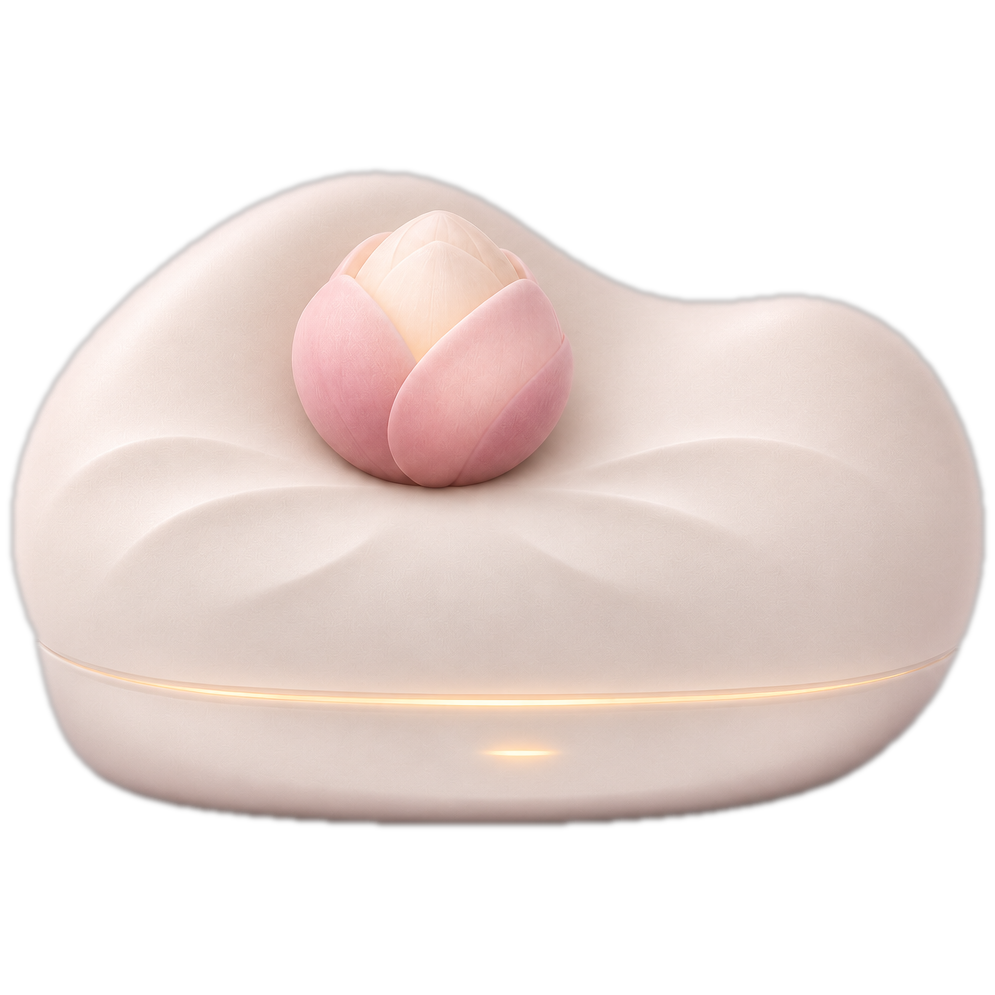
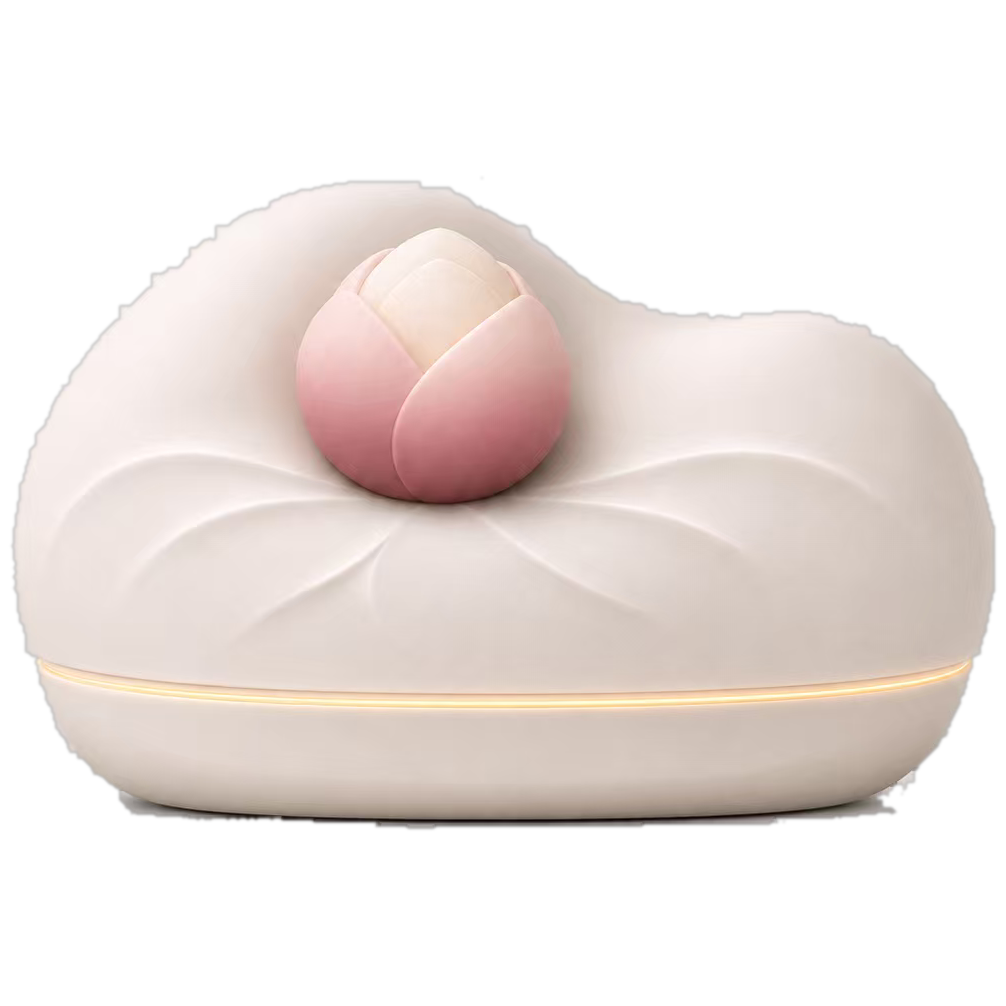
改用正视图：灰底映射宣纸色不抠边、烟改细柔、点火改为花心透光（去掉几何放大）、夜间边缘化入夜色

diff --git a/css/lotus.css b/css/lotus.css
@@ -1,121 +1,94 @@
 /* ============================================================
    闻息 · lotus.css  （最后加载）
-   把「香炉图」换成建模版的香薰仪之后，所有对位参数在这里统一覆盖。
-   只调视觉对位，不动任何交互逻辑。
+   产品：香薰仪建模（正视图）
+   只做视觉对位与氛围，不动任何交互逻辑
    ============================================================ */
 
-/* 产品图：方形容器内等比放置 */
+/* ---------- 产品图 ---------- */
 .censer-art {
   object-fit: contain;
+  transform: none;
 }
-
-/* 同一张透明 PNG，昼夜靠滤镜区分质感 */
+/* 白天版已把影棚灰底映射成宣纸色，不再抠边 */
 html[data-theme="day"] .censer-art-day {
-  filter: drop-shadow(0 16px 22px rgba(120, 92, 52, .20));
+  filter: drop-shadow(0 18px 26px rgba(122, 96, 58, .16));
 }
+/* 夜间版已抠图并压暗；再用径向遮罩把边缘化进夜色，去掉抠图残留的灰边 */
 html[data-theme="night"] .censer-art-night {
-  filter: brightness(.88) saturate(.92) drop-shadow(0 14px 26px rgba(0, 0, 0, .45));
+  filter: drop-shadow(0 14px 30px rgba(0, 0, 0, .42));
+  -webkit-mask-image: radial-gradient(closest-side at 50% 47%, #000 58%, rgba(0,0,0,.55) 76%, transparent 92%);
+  mask-image: radial-gradient(closest-side at 50% 47%, #000 58%, rgba(0,0,0,.55) 76%, transparent 92%);
 }
 
-/* 出雾口（莲花中心）在画面里的位置：烟雾从这里升起 */
-.censer-smoke-origin {
-  left: 45%;
-  top: 34%;
-}
-
-/* 接地阴影：产品更宽更扁，投影随之加宽下移 */
-.censer-ground-shadow {
-  top: 84%;
-  width: 74%;
-  height: 7%;
-  opacity: .55;
-}
-
-/* 旧香炉的点火蒙版（花瓣/金线）是按老模型做的，对新模型对不上——隐藏，
-   改用炉心光晕随点火增强，保持"按下 → 亮起"的同一套交互 */
-.ignition-glow {
-  display: none !important;
-}
-
-body.is-igniting .censer-glow {
-  opacity: .95;
-}
-body.is-igniting .ignition-spark {
-  animation-duration: .9s;
-}
-
-
-/* ---------- 尺寸与层次 ---------- */
-.censer-wrap { width: clamp(320px, 54vmin, 600px); }
-
-/* 产品后面的柔和台面光，让奶白产品从宣纸底上浮起来 */
+/* 托底光：只在日间保留一点点，夜间不用（暗底上会显成灰块） */
 .censer-wrap::before {
-  content: "";
-  position: absolute;
-  inset: 6% 0 8%;
-  border-radius: 50%;
-  z-index: 0;
-  pointer-events: none;
-  background: radial-gradient(closest-side, rgba(255, 249, 232, .92), rgba(255, 249, 232, 0) 70%);
+  background: radial-gradient(closest-side, rgba(255, 249, 232, .55), rgba(255, 249, 232, 0) 70%);
 }
 html[data-theme="night"] .censer-wrap::before {
-  background: radial-gradient(closest-side, rgba(128, 158, 184, .14), rgba(128, 158, 184, 0) 70%);
+  background: none;
 }
 
-/* ---------- 伪 3D：产品跟着鼠标转（perspective + rotate 已在基础样式里），
-   影子和产品反向位移，形成"物件在动、影子不动"的立体感 ---------- */
-.censer-art {
-  transform: scale(1.02);
-  transform-origin: 50% 52%;
-  transition: transform .18s ease-out;
+/* ---------- 尺寸 ---------- */
+.censer-wrap {
+  width: clamp(330px, 56vmin, 620px);
 }
+
+/* ---------- 出雾口：花心 ---------- */
+.censer-smoke-origin {
+  left: 47%;
+  top: 36%;
+}
+
+/* ---------- 接地阴影 + 伪 3D 反向位移 ---------- */
 .censer-ground-shadow {
+  top: 86%;
+  width: 72%;
+  height: 6.5%;
+  opacity: .5;
   transform: translateX(-50%)
-             translate(calc(var(--tx, 0) * -2.4px), calc(var(--ty, 0) * 3.2px))
+             translate(calc(var(--tx, 0) * -2.2px), calc(var(--ty, 0) * 3px))
              scaleX(calc(1 + var(--tx, 0) * .012));
-  transition: transform .18s ease-out;
+  transition: transform .2s ease-out;
 }
 
-/* 光影随倾斜方向变化，进一步强化体积感 */
-.censer-wrap::before {
-  transform: translate(calc(var(--tx, 0) * 3px), calc(var(--ty, 0) * -2px));
-  transition: transform .18s ease-out;
-}
-
-/* ---------- 夜间：白色产品要压暗，避免突兀 ---------- */
-html[data-theme="night"] .censer-art-night {
-  filter: brightness(.60) saturate(.86) contrast(1.04)
-          drop-shadow(0 12px 26px rgba(0, 0, 0, .5));
-}
-
-/* ---------- 花瓣张开：点火时叠一层莲花区域，轻微放大 ---------- */
-.censer-bloom {
+/* ---------- 花心透光：点燃时从花心透出粉光（不做几何放大） ---------- */
+.censer-budglow {
   position: absolute;
-  inset: 0;
-  width: 100%;
-  height: 100%;
-  object-fit: contain;
-  z-index: 4;
+  left: 47%;
+  top: 36%;
+  width: 34%;
+  height: 34%;
+  transform: translate(-50%, -50%) scale(.72);
+  border-radius: 50%;
+  z-index: 3;
   pointer-events: none;
   opacity: 0;
-  clip-path: circle(23% at 44% 37%);
-  transform-origin: 44% 37%;
-  transform: scale(1);
-  transition: opacity 1.2s ease, transform 2.2s cubic-bezier(.33, .02, .2, 1);
+  background: radial-gradient(circle closest-side,
+    rgba(255, 196, 214, .85) 0%,
+    rgba(255, 176, 200, .40) 34%,
+    rgba(255, 170, 196, .12) 58%,
+    rgba(255, 170, 196, 0) 78%);
+  filter: blur(10px);
+  transition: opacity 1.5s cubic-bezier(.4, 0, .2, 1), transform 2.4s cubic-bezier(.33, .02, .2, 1);
 }
-html[data-theme="night"] .censer-bloom {
-  filter: brightness(.60) saturate(.86);
+body.is-igniting .censer-budglow {
+  opacity: .95;
+  transform: translate(-50%, -50%) scale(1.06);
 }
-body.is-igniting .censer-bloom,
-body.is-lit .censer-bloom {
-  opacity: .96;
-  transform: scale(1.13);
+body.is-lit .censer-budglow {
+  opacity: .62;
+  transform: translate(-50%, -50%) scale(1);
+  animation: budBreath 5.6s ease-in-out infinite;
+}
+@keyframes budBreath {
+  0%, 100% { opacity: .50; }
+  50%      { opacity: .74; }
 }
 
-/* 点火瞬间莲花内部透出粉光 */
+/* 点火瞬间整炉泛一层暖粉 */
 body.is-igniting .censer-glow {
-  background: radial-gradient(closest-side at 44% 37%,
-    rgba(255, 190, 210, .55) 0%,
-    rgba(255, 170, 196, .18) 38%,
-    rgba(255, 170, 196, 0) 70%);
+  background: radial-gradient(closest-side at 47% 45%,
+    rgba(255, 205, 218, .34) 0%,
+    rgba(255, 190, 210, .12) 42%,
+    rgba(255, 190, 210, 0) 72%);
 }

diff --git a/js/smoke.js b/js/smoke.js
@@ -92,15 +92,15 @@ var Smoke = (function () {
 
     p.alive = true;
     p.age = 0;
-    p.life = 4.2 + rnd() * 3.4;
-    p.x = origin.x + (rnd() - 0.5) * 13;
+    p.life = 5.5 + rnd() * 4.2;
+    p.x = origin.x + (rnd() - 0.5) * 7;
     p.y = origin.y + (rnd() - 0.5) * 6;
-    p.vx = (rnd() - 0.5) * 13;
-    p.vy = -(13 + rnd() * 11) * (boost ? 1.7 : 1);
-    p.size = 12 + rnd() * 14;
-    p.grow = 16 + rnd() * 26;
+    p.vx = (rnd() - 0.5) * 5;
+    p.vy = -(7 + rnd() * 6) * (boost ? 1.7 : 1);
+    p.size = 16 + rnd() * 16;
+    p.grow = 26 + rnd() * 30;
     p.seed = rnd() * 480;
-    p.alpha = 0.55 + rnd() * 0.45;
+    p.alpha = 0.20 + rnd() * 0.24;
     return true;
   }
 
@@ -120,7 +120,7 @@ var Smoke = (function () {
     if (Math.abs(target - intensity) < 0.001) intensity = target;
 
     // 生成
-    var rate = intensity * 26 * density;
+    var rate = intensity * 9 * density;
     spawnAcc += rate * dt;
     var guard = 0;
     while (spawnAcc >= 1 && guard++ < 8) {
@@ -170,7 +170,7 @@ var Smoke = (function () {
     ctx.clearRect(0, 0, W, H);
     ctx.globalCompositeOperation = style.blend;
 
-    var glow = (0.052 + intensity * 0.020) * style.gain;
+    var glow = (0.105 + intensity * 0.060) * style.gain;
 
     for (var i = 0; i < MAX; i++) {
       var p = particles[i];

diff --git a/index.html b/index.html
@@ -94,11 +94,11 @@
             <circle class="press-fill" id="pressFill" cx="200" cy="205" r="176"/>
           </svg>
           <div class="censer-ground-shadow" aria-hidden="true"></div>
-          <img class="censer-art censer-art-day" src="assets/censer/lotus.png"
+          <img class="censer-art censer-art-day" src="assets/censer/lotus-day.png"
                width="1254" height="1254" alt="" aria-hidden="true" draggable="false" />
-          <img class="censer-art censer-art-night" src="assets/censer/lotus.png"
+          <img class="censer-art censer-art-night" src="assets/censer/lotus-night.png"
                width="1254" height="1254" alt="" aria-hidden="true" draggable="false" />
-<img class="censer-bloom" src="assets/censer/lotus.png" alt="" aria-hidden="true" draggable="false" />
+<span class="censer-budglow" aria-hidden="true"></span>
 <span class="ignition-glow ignition-1" aria-hidden="true"></span>
 <span class="ignition-glow ignition-2" aria-hidden="true"></span>
 <span class="ignition-glow ignition-3" aria-hidden="true"></span>

diff --git a/js/app.js b/js/app.js
@@ -517,8 +517,8 @@
     var night = state.theme === 'night';
     if (lit) {
       /* 粉烟：宣纸底上用正常叠加才看得见，夜间用深一档的粉 */
-      if (night) Smoke.setStyle({ color: [232, 150, 180], blend: 'source-over', gain: 4.4 });
-      else Smoke.setStyle({ color: [250, 168, 194], blend: 'lighter', gain: 3.4 });
+      if (night) Smoke.setStyle({ color: [222, 178, 190], blend: 'source-over', gain: 1.15 });
+      else Smoke.setStyle({ color: [247, 214, 223], blend: 'source-over', gain: 1.6 });
     } else {
       if (night) Smoke.setStyle({ color: [193, 213, 229], blend: 'source-over', gain: .8 });
       else Smoke.setStyle({ color: [255, 255, 255], blend: 'lighter', gain: 3.2 });
